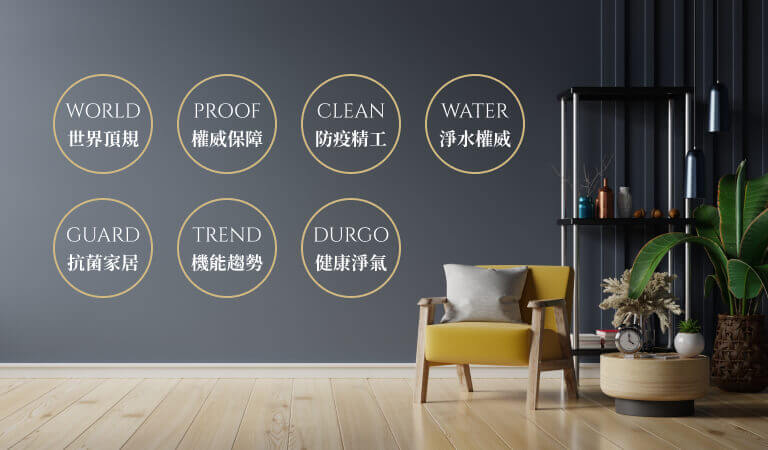
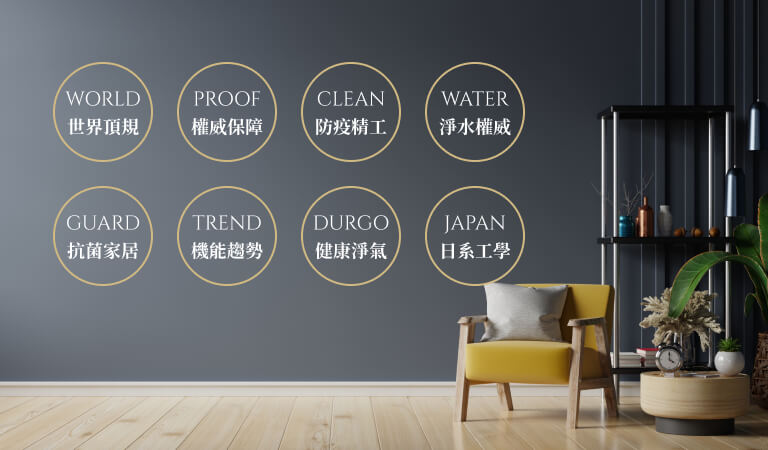
[Fix] 需求調整

diff --git a/css/main.min.css b/css/main.min.css
@@ -1,1 +1,1 @@
-@import"https://fonts.googleapis.com/css2?family=Noto+Serif+TC:wght@400;700&display=swap";@import"https://fonts.googleapis.com/css2?family=Cinzel&display=swap";*,*::after,*::before{-webkit-box-sizing:border-box;box-sizing:border-box}html{font-size:16px}body{color:#181818;font-family:"Noto Serif TC","微軟正黑體","Microsoft JhengHei",serif}h1,h2,h3,h4,h5,h6{margin:0}img{display:block;max-width:100%;height:auto}p{margin:0}picture{max-width:100%}.white{color:#fff}.gold{color:#d1b982}.relative{position:relative}.d-none{display:none}.d-block{display:block}.d-flex{display:-webkit-box;display:-ms-flexbox;display:flex}@media(min-width: 821px){.d-md-none{display:none}.d-md-inline{display:inline-block}.d-md-block{display:block}}.align-center{-webkit-box-align:center;-ms-flex-align:center;align-items:center}.justify-between{-webkit-box-pack:justify;-ms-flex-pack:justify;justify-content:space-between}.justify-center{-webkit-box-pack:center;-ms-flex-pack:center;justify-content:center}.justify-start{-webkit-box-pack:start;-ms-flex-pack:start;justify-content:flex-start}.font-en,.title-en{font-family:"Cinzel",serif}.title{margin-bottom:1rem;font-size:clamp(1.5rem,5vw,2.5rem);font-weight:bold;line-height:1.4}.title.large{font-size:clamp(2rem,8vw,4rem)}.title.middle{font-size:clamp(1.25rem,5vw,2.25rem)}.title.small{font-size:clamp(.8rem,4vw,1.25rem)}.title-en{margin-bottom:.5rem;color:#d1b982;font-size:clamp(.9rem,3vw,1.5rem);font-weight:normal}.subtitle{margin-bottom:.8rem;font-size:clamp(1rem,3vw,1.5rem);font-weight:normal;line-height:1.2}.para{font-size:clamp(.75rem,2vw,1.125rem);line-height:1.8;text-align:justify}.img-tag{position:absolute;left:1rem;bottom:1rem;color:#fff;font-size:.75rem}.img-tag.right{left:initial;right:1rem}@media(min-width: 821px){.title{margin-bottom:3rem}.title-en{margin-bottom:1rem}.subtitle{margin-bottom:1.25rem}.img-tag{font-size:1rem}}.deco-line,.deco-line-gold{display:block;width:100%;height:1px;background-color:#fff;margin:0}.deco-line-gold{background-color:#d1b982}@media(min-width: 821px){.deco-line,.deco-line-gold{height:2px}}.swiper-slide img{display:block;width:100%;height:100%;-o-object-fit:cover;object-fit:cover}.swiper-button-next,.swiper-button-prev{min-width:2rem;min-height:3rem;background-color:rgba(226,226,226,.6)}.swiper-button-next::after,.swiper-button-prev::after{display:none}.swiper-button-next svg,.swiper-button-prev svg{fill:#fff}.swiper-button-next{padding:0 .75rem 0 .5rem;border-radius:4px 0 0 4px;right:0}.swiper-button-prev{padding:0 .5rem 0 .75rem;border-radius:0 4px 4px 0;left:0}@media(min-width: 821px){.swiper-button-next,.swiper-button-prev{padding:0;background-color:rgba(0,0,0,0)}.swiper-button-next svg,.swiper-button-prev svg{fill:#d1b982}.swiper-button-next.white svg,.swiper-button-prev.white svg{fill:#fff}.swiper-button-next{right:3rem}.swiper-button-prev{left:3rem}}.section{position:relative;max-width:100vw;min-height:100vh;overflow:hidden}.img-bg img{width:100vw;max-width:100%;height:100vh;-o-object-fit:cover;object-fit:cover}.pattern-g{background-image:url("../images/patten-g-m.png");background-repeat:repeat}.pattern-r{background-image:url("../images/patten-r-m.png");background-repeat:repeat}@media(min-width: 821px){.pattern-g{background-image:url("../images/patten-g.png")}.pattern-r{background-image:url("../images/patten-r.png")}}.s0{color:#fff}.s0 .logo{margin-bottom:1.25rem}.s0 .divider{margin:0 10px}.s0 .content{display:-webkit-box;display:-ms-flexbox;display:flex;-webkit-box-orient:vertical;-webkit-box-direction:normal;-ms-flex-direction:column;flex-direction:column;-webkit-box-align:center;-ms-flex-align:center;align-items:center;-webkit-box-pack:center;-ms-flex-pack:center;justify-content:center;position:absolute;top:50%;left:50%;-webkit-transform:translate(-50%, -50%);transform:translate(-50%, -50%);white-space:nowrap}.s0 .middle{margin-bottom:1.25rem;color:#e2e2e2;text-align:center;line-height:1.4}.s0 .middle .font-en,.s0 .middle .title-en{letter-spacing:2px}.s0 .small{color:#e2e2e2}.s0 .gradient{color:#f1dfb5;background:linear-gradient(45deg, #f1dfb5 75%, #FFF 80%, #f1dfb5 85%);background-size:200% auto;background-clip:text;text-fill-color:rgba(0,0,0,0);-webkit-background-clip:text;-webkit-text-fill-color:rgba(0,0,0,0);-webkit-animation:textGradient 1.5s linear infinite;animation:textGradient 1.5s linear infinite}@-webkit-keyframes textGradient{0%{background-position:200% 0}100%{background-position:0 200%}}@keyframes textGradient{0%{background-position:200% 0}100%{background-position:0 200%}}@media(min-width: 821px){.s0 .logo{margin-bottom:2.5rem}.s0 .large{margin-bottom:5.5rem}}.s1 .content{display:-webkit-box;display:-ms-flexbox;display:flex;-webkit-box-orient:vertical;-webkit-box-direction:normal;-ms-flex-direction:column;flex-direction:column;-webkit-box-align:center;-ms-flex-align:center;align-items:center;position:absolute;bottom:6rem;right:50%;-webkit-transform:translateX(50%);transform:translateX(50%)}.s1 .title,.s1 .title-en{white-space:nowrap}@media(min-width: 821px){.s1 .content{-webkit-box-align:start;-ms-flex-align:start;align-items:flex-start;top:8rem;bottom:initial;right:4rem;-webkit-transform:initial;transform:initial}}.s2{padding:3rem 1.5rem;min-height:auto}.s2 .img-bg img{max-height:40vh;margin:0 auto}.s2 .content{display:-webkit-box;display:-ms-flexbox;display:flex;-webkit-box-orient:vertical;-webkit-box-direction:normal;-ms-flex-direction:column;flex-direction:column;-webkit-box-align:center;-ms-flex-align:center;align-items:center;margin-top:1rem}@media(min-width: 821px){.s2{padding:0}.s2 .img-bg img{max-height:100vh}.s2 .content{max-width:40vw;margin:0;color:#fff;-webkit-box-align:start;-ms-flex-align:start;align-items:flex-start;position:absolute;top:8rem;left:4rem}.s2 .para{max-width:520px}}.s3{padding:0 0 3rem 0;min-height:auto}.s3 .img-bg img{height:auto;margin:0 auto}.s3 .border{display:inline-block;margin-bottom:.5rem;padding:0 1rem;border-left:2px solid #d1b982;border-right:2px solid #d1b982;font-weight:bold;line-height:1}.s3 .content{display:-webkit-box;display:-ms-flexbox;display:flex;-webkit-box-orient:vertical;-webkit-box-direction:normal;-ms-flex-direction:column;flex-direction:column;-webkit-box-align:center;-ms-flex-align:center;align-items:center;margin-top:1rem;padding:0 1.5rem}.s3 .title{font-size:clamp(1.2rem,5vw,2.2rem);text-align:center}.s3 .circle-group{display:none}.s3 .deco-line,.s3 .deco-line-gold{margin:1rem auto;background-color:#d1b982}.s3 .deco-line-gold{margin:0 auto 1rem auto;max-width:100%}.s3 .img-flag{max-width:28px;height:auto;-o-object-fit:contain;object-fit:contain}.s3 .img-flag.jp{-webkit-box-shadow:0 0 4px rgba(24,24,24,.2);box-shadow:0 0 4px rgba(24,24,24,.2)}.s3 .img-durgo{max-width:78px;height:auto}.s3 .d-flex{gap:8px;margin-bottom:1rem;-webkit-box-pack:center;-ms-flex-pack:center;justify-content:center;-webkit-box-align:center;-ms-flex-align:center;align-items:center}.s3 .d-flex .subtitle{font-size:clamp(1rem,3vw,2rem);font-weight:bold}.s3 .d-flex .title,.s3 .d-flex .title-en,.s3 .d-flex .subtitle{margin:0;white-space:nowrap}.s3 .d-flex .title.white,.s3 .d-flex .title-en.white,.s3 .d-flex .subtitle.white{color:#181818}.s3 ul.list li{display:-webkit-box;display:-ms-flexbox;display:flex;-webkit-box-align:center;-ms-flex-align:center;align-items:center}.s3 ul.list li::before{content:"";display:block;width:10px;height:10px;margin-right:10px;background-color:#d1b982;border-radius:50%}.s3 .d-md-none{display:none}@media(min-width: 821px){.s3{padding:0;color:#fff}.s3 .img-bg img{max-height:100vh}.s3 .img-background{background-color:rgba(24,24,24,.6);padding:1.5rem}.s3 .border{margin-bottom:1.125rem}.s3 .content{-webkit-box-align:start;-ms-flex-align:start;align-items:flex-start;max-width:45vw;margin:0;padding:0;position:absolute;top:50%;-webkit-transform:translateY(-50%);transform:translateY(-50%)}.s3 .content.left{left:8rem}.s3 .content.right{right:8rem}.s3 .content.center{display:-webkit-box;display:-ms-flexbox;display:flex;-webkit-box-orient:vertical;-webkit-box-direction:normal;-ms-flex-direction:column;flex-direction:column;-webkit-box-align:center;-ms-flex-align:center;align-items:center;left:50%;-webkit-transform:translate(-50%, -50%);transform:translate(-50%, -50%)}.s3 .content.center .para{margin-top:2rem;margin-bottom:1rem}.s3 .content.background{background-color:rgba(0,10,46,.5);padding:2rem;border:2px solid #fff}.s3 .title{margin-bottom:2.5rem;text-align:left}.s3 .para{max-width:520px}.s3 .circle-group{display:grid;grid-template-columns:repeat(4, 150px);gap:1rem;margin-top:2rem}.s3 .circle-item{display:-webkit-box;display:-ms-flexbox;display:flex;-webkit-box-orient:vertical;-webkit-box-direction:normal;-ms-flex-direction:column;flex-direction:column;-webkit-box-align:center;-ms-flex-align:center;align-items:center;-webkit-box-pack:center;-ms-flex-pack:center;justify-content:center;width:150px;height:150px;border:2px solid #d1b982;border-radius:50%;font-size:1.5rem;font-weight:bold}.s3 .circle-item .font-en,.s3 .circle-item .title-en{font-weight:normal}.s3 .deco-line,.s3 .deco-line-gold{margin:3rem auto;background-color:#fff}.s3 .deco-line-gold{max-width:320px;margin:0 auto 3rem 0;justify-self:flex-start;background-color:#d1b982}.s3 .img-flag{max-width:48px}.s3 .img-durgo{max-width:138px}.s3 .d-flex{gap:16px;margin:0}.s3 .d-flex.d-md-left{-webkit-box-pack:start;-ms-flex-pack:start;justify-content:flex-start}.s3 .d-flex .title.white,.s3 .d-flex .title-en.white{color:#fff}.s3 .d-md-none{display:block}}.s4{display:-webkit-box;display:-ms-flexbox;display:flex;-webkit-box-orient:vertical;-webkit-box-direction:normal;-ms-flex-direction:column;flex-direction:column;max-height:auto;background-color:#e2e2e2;min-height:initial}.s4 .swiper{max-width:100%}.s4 .swiper .swiper-slide{padding:1.5rem}.s4 .content{-webkit-box-flex:initial;-ms-flex:initial;flex:initial;max-width:initial;display:-webkit-box;display:-ms-flexbox;display:flex;-webkit-box-orient:vertical;-webkit-box-direction:normal;-ms-flex-direction:column;flex-direction:column;-webkit-box-align:center;-ms-flex-align:center;align-items:center;padding:0 1.5rem 3rem 1.5rem}@media(min-width: 821px){.s4{-webkit-box-orient:horizontal;-webkit-box-direction:normal;-ms-flex-direction:row;flex-direction:row;min-height:100vh;max-height:100vh;background-color:#fff}.s4 .swiper{-webkit-box-flex:1;-ms-flex:1;flex:1;max-width:65%}.s4 .swiper .swiper-slide{padding:0}.s4 .content{-ms-flex-item-align:center;align-self:center;-webkit-box-flex:0;-ms-flex:0 0 35%;flex:0 0 35%;max-width:35%;min-width:380px;padding:4rem}.s4 .title{white-space:initial}}.s5{min-height:auto}.s5 .swiper-slide{display:-webkit-box;display:-ms-flexbox;display:flex;-webkit-box-orient:vertical;-webkit-box-direction:normal;-ms-flex-direction:column;flex-direction:column;padding:3rem 1.5rem}.s5 .title{color:#d1b982;font-size:clamp(1.25rem,4vw,2.2rem);margin-bottom:0}.s5 .title span{margin-left:4px;font-size:clamp(1rem,3vw,1.5rem)}.s5 .content-wrapper{display:-webkit-box;display:-ms-flexbox;display:flex;margin-bottom:1rem}.s5 .works-title{display:-webkit-box;display:-ms-flexbox;display:flex;-webkit-box-align:center;-ms-flex-align:center;align-items:center;white-space:nowrap;color:#d1b982;font-size:clamp(.75rem,3vw,1.25rem)}.s5 .works-title+.para{line-height:1.4}.s5 .deco-line-gold{width:auto;-webkit-box-flex:1;-ms-flex:1;flex:1;margin:16px 0 16px 10px;height:1px}.s5 .avatar{width:120px;height:120px;margin-right:1rem}.s5 .works-img-wrapper{margin-top:1rem;position:relative}.s5 .works-img-wrapper .works-img{position:relative;z-index:1}.s5 .works-img-wrapper .img-tag{z-index:1}.s5 .works-img-wrapper .border{position:absolute;width:100%;height:100%;border:1px solid #d1b982;top:8px;left:8px}@media(min-width: 821px){.s5{min-height:100vh}.s5 .swiper-slide{padding:0;-webkit-box-orient:horizontal;-webkit-box-direction:normal;-ms-flex-direction:row;flex-direction:row}.s5 .title{margin-bottom:48px;line-height:1.6}.s5 .avatar{width:160px;height:160px;position:absolute;top:-120px}.s5 .content{display:-webkit-box;display:-ms-flexbox;display:flex;-webkit-box-orient:vertical;-webkit-box-direction:normal;-ms-flex-direction:column;flex-direction:column;-webkit-box-align:center;-ms-flex-align:center;align-items:center;-webkit-box-pack:center;-ms-flex-pack:center;justify-content:center;-webkit-box-flex:0;-ms-flex:0 0 35%;flex:0 0 35%;max-width:35%;min-width:380px;padding:3.2rem}.s5 .content-wrapper{-webkit-box-orient:vertical;-webkit-box-direction:normal;-ms-flex-direction:column;flex-direction:column;max-width:360px;border:1px solid #d1b982;margin-bottom:0;padding:4rem 2rem 2rem 2rem;position:relative;background-color:#fff;-webkit-transform:translateY(4vw);transform:translateY(4vw)}.s5 .works-title+.para{line-height:1.8}.s5 .deco-line-gold{margin:24px 0 24px 24px}.works-grid{display:grid;-webkit-box-flex:1;-ms-flex:1;flex:1;max-width:65%;height:100vh;max-height:100vh;display:grid;grid-gap:4px;grid-template-columns:repeat(4, 1fr);grid-template-rows:repeat(3, 1fr)}.works-grid.d1{grid-template-areas:"G1 G1 G4 G4" "G2 G2 G4 G4" "G3 G3 G4 G4"}.works-grid.d2{grid-template-areas:"G1 G1 G2 G2" "G1 G1 G3 G3" "G4 G4 G4 G4"}.works-grid.d3{grid-template-rows:repeat(4, 1fr);grid-template-areas:"G1 G1 G2 G2" "G1 G1 G2 G2" "G3 G3 G4 G4" "G3 G3 G4 G4"}.works-grid.d4{grid-template-columns:repeat(3, 1fr);grid-template-areas:"G1 G1 G1" "G2 G3 G4" "G2 G3 G4"}.g1{grid-area:G1}.g2{grid-area:G2}.g3{grid-area:G3}.g4{grid-area:G4}}@media(min-width: 1280px){.s5 .title{line-height:1.8}.s5 .avatar{width:200px;height:200px;top:-150px}.s5 .content-wrapper{padding:4rem 2.5rem 2.5rem 2.5rem}.s5 .content{padding:4rem}}.s6{display:-webkit-box;display:-ms-flexbox;display:flex;-webkit-box-orient:vertical;-webkit-box-direction:normal;-ms-flex-direction:column;flex-direction:column;max-height:auto;background-color:#d1b982;min-height:initial}.s6 .swiper{max-width:100%}.s6 .swiper .swiper-slide{position:relative}.s6 .content{-webkit-box-flex:initial;-ms-flex:initial;flex:initial;max-width:initial;display:-webkit-box;display:-ms-flexbox;display:flex;-webkit-box-orient:vertical;-webkit-box-direction:normal;-ms-flex-direction:column;flex-direction:column;-webkit-box-align:center;-ms-flex-align:center;align-items:center;padding:1rem 1.5rem 3rem 1.5rem}@media(min-width: 821px){.s6{-webkit-box-orient:horizontal;-webkit-box-direction:normal;-ms-flex-direction:row;flex-direction:row;min-height:100vh;max-height:100vh;color:#fff;background-color:#d1b982}.s6 .swiper{-webkit-box-flex:1;-ms-flex:1;flex:1}.s6 .vertical_write{font-size:1.5rem;-webkit-writing-mode:vertical-rl;-ms-writing-mode:tb-rl;writing-mode:vertical-rl;line-height:1.5;letter-spacing:6px}.s6 .content{-ms-flex-item-align:center;align-self:center;-webkit-box-flex:0;-ms-flex:0 0 280px;flex:0 0 280px;max-width:280px;padding:4rem}.s6 .para{padding:2.5rem 0;border-top:1px solid #fff;border-bottom:1px solid #fff}}.s7{min-height:auto}.s7 .swiper-slide{padding:3rem 1.5rem 0 1.5rem}.s7 .swiper-slide img{min-height:220px}.s7 .title{text-align:center}.s7 .content{display:-webkit-box;display:-ms-flexbox;display:flex;-webkit-box-orient:vertical;-webkit-box-direction:normal;-ms-flex-direction:column;flex-direction:column;-webkit-box-align:center;-ms-flex-align:center;align-items:center;padding:1rem 1.5rem 3rem 1.5rem}.s7 .white{color:#181818}@media(min-width: 821px){.s7{display:block}.s7 .swiper-slide{padding:0}.s7 .swiper-slide img{height:100vh}.s7 .title{text-align:left}.s7 .content{width:40vw;max-width:620px;min-width:560px;margin:0;-webkit-box-align:start;-ms-flex-align:start;align-items:flex-start;position:absolute;top:6rem;left:0;padding:2rem 4rem 2rem 8rem}.s7 .content.white{color:#fff;background-color:rgba(24,24,24,.5)}}.reservation{background:url("../images/s0/bg-m.jpg") center center;background-size:cover}.reservation .d-flex{padding:8rem 4rem 6rem 4rem;-webkit-box-align:start;-ms-flex-align:start;align-items:flex-start;-webkit-box-pack:center;-ms-flex-pack:center;justify-content:center}.reservation .title{font-size:30px;margin-bottom:1rem;color:#fff}@media(min-width: 821px){.reservation{background:url("../images/s0/bg.jpg") center center}}.intro{margin-right:2rem;-webkit-box-flex:1;-ms-flex:1 1 40%;flex:1 1 40%;max-width:480px}.intro a{font-size:18px;color:#fff}.info-wrapper{color:#fff}.info-wrapper .table{margin-bottom:2rem}.info-wrapper .table>thead>tr>th{padding:0;border:none}.info-wrapper .table>tbody>tr>td{padding:8px 0;font-size:18px;font-weight:bold;border:none}.call-to-action{-webkit-box-flex:1;-ms-flex:1 1 60%;flex:1 1 60%;max-width:710px}.form-wrapper{max-width:710px;margin:0 auto;padding-bottom:2rem}.form-wrapper .form-control-wrapper{margin-bottom:4rem}.form-wrapper .d-flex{padding:0}.form-wrapper .d-flex .form-control{-webkit-box-flex:1;-ms-flex:1;flex:1;margin-bottom:0;margin-right:16px}.form-title{margin-bottom:2rem;color:#fff;font-weight:bold;text-align:left}.form-control{border:1px solid #9e9f9f;border-radius:4px;background-color:#fff;color:#181818;height:52px;margin-bottom:1rem;font-size:1rem;padding:8px 20px 8px 12px}.form-control::-webkit-input-placeholder{color:#9e9f9f}.form-control::-moz-placeholder{color:#9e9f9f}.form-control:-ms-input-placeholder{color:#9e9f9f}.form-control::-ms-input-placeholder{color:#9e9f9f}.form-control::placeholder{color:#9e9f9f}.policy{margin-bottom:1rem;color:#fff;line-height:1.5}.form-check-label{display:-webkit-box;display:-ms-flexbox;display:flex;-webkit-box-align:center;-ms-flex-align:center;align-items:center;gap:8px;margin-bottom:1.5rem;color:#fff;font-weight:normal;cursor:pointer}.form-check-label a{padding-left:4px;color:#fff;font-weight:bold}.form-check-label a:hover{text-decoration:underline}.btn{display:-webkit-box;display:-ms-flexbox;display:flex;-webkit-box-align:center;-ms-flex-align:center;align-items:center;-webkit-box-pack:center;-ms-flex-pack:center;justify-content:center;-webkit-box-flex:1;-ms-flex:1;flex:1;height:52px;color:#fff;border-radius:4px;background-color:#d1b982;font-size:18px;font-weight:bold;-webkit-transition:all .1s ease-in;transition:all .1s ease-in;cursor:pointer}.btn:hover{color:#9e9f9f;background-color:#fff}.btn-secondary{height:52px;color:#fff;background-color:#9e9f9f;border:0;border-radius:4px;font-weight:bold}@media(max-width: 1024px){.reservation .title{font-size:22px;text-align:left}.reservation .d-flex{padding:2rem 1rem;-webkit-box-orient:vertical;-webkit-box-direction:normal;-ms-flex-direction:column;flex-direction:column;-webkit-box-align:center;-ms-flex-align:center;align-items:center;max-width:680px;margin:0 auto}.reservation .intro{-webkit-box-flex:1;-ms-flex:1 1 100%;flex:1 1 100%;width:100%;max-width:100%;margin:0;padding:0}.reservation .call-to-action{-webkit-box-flex:1;-ms-flex:1 1 100%;flex:1 1 100%}.reservation .info-wrapper .table{margin-bottom:1rem}.reservation .info-wrapper .table>thead>tr>th{padding:0}.reservation .info-wrapper .table>tbody>tr>td{font-size:16px;padding:0 0 1rem 0}.reservation .form-wrapper{max-width:680px}.reservation .form-wrapper .d-flex{-webkit-box-orient:horizontal;-webkit-box-direction:normal;-ms-flex-direction:row;flex-direction:row;-webkit-box-align:stretch;-ms-flex-align:stretch;align-items:stretch;padding:0;margin-bottom:.5rem}.reservation .form-wrapper .d-flex .form-control{margin-right:5px}}@media(max-width: 820px){.reservation .d-flex{padding:2rem 0}.reservation .intro{text-align:center}.reservation .intro .title{text-align:center;margin-bottom:1rem}.reservation .intro .para{margin:0;text-align:center}.reservation .contact-content{display:-webkit-box;display:-ms-flexbox;display:flex;-webkit-box-align:center;-ms-flex-align:center;align-items:center;-webkit-box-pack:center;-ms-flex-pack:center;justify-content:center;gap:.75rem;padding-bottom:1.5rem;margin-bottom:1.5rem;position:relative}.reservation .contact-content::after{content:"";display:block;width:80px;height:2px;background-color:#fff;position:absolute;bottom:0}.reservation .contact-content .title{margin-bottom:0}.reservation .contact-content .title,.reservation .contact-content .para{font-size:1.5rem}.form-wrapper .form-title{text-align:center;padding-bottom:8px}.form-wrapper .form-control-wrapper{margin-bottom:0}.form-wrapper .form-control,.form-wrapper .btn,.form-wrapper .btn-secondary{height:48px}.map-wrapper{display:-webkit-box;display:-ms-flexbox;display:flex;-webkit-box-orient:vertical;-webkit-box-direction:reverse;-ms-flex-direction:column-reverse;flex-direction:column-reverse}}@media(max-width: 480px){.form-title{margin:0;margin-bottom:1rem;font-size:22px}.form-control{margin-bottom:.5rem}.form-control,.btn,.btn-secondary{font-size:15px}.policy{margin-bottom:8px;font-size:12px;letter-spacing:-1px}.form-check-label{margin-bottom:12px;font-size:12px}}.google-map{width:100%;max-width:100%;height:30vh;max-height:200px;margin:2rem auto;position:relative}.google-map iframe{width:100%;max-width:100%;height:100%;position:absolute;top:0;bottom:0;left:0;right:0}@media(max-width: 820px){.google-map{margin-bottom:2rem}}/*# sourceMappingURL=main.min.css.map */
+@import"https://fonts.googleapis.com/css2?family=Noto+Serif+TC:wght@400;700&display=swap";@import"https://fonts.googleapis.com/css2?family=Cinzel&display=swap";*,*::after,*::before{-webkit-box-sizing:border-box;box-sizing:border-box}html{font-size:16px}body{color:#181818;font-family:"Noto Serif TC","微軟正黑體","Microsoft JhengHei",serif}h1,h2,h3,h4,h5,h6{margin:0}img{display:block;max-width:100%;height:auto}p{margin:0}picture{max-width:100%}.white{color:#fff}.gold{color:#d1b982}.relative{position:relative}.d-none{display:none}.d-block{display:block}.d-flex{display:-webkit-box;display:-ms-flexbox;display:flex}@media(min-width: 821px){.d-md-none{display:none}.d-md-inline{display:inline-block}.d-md-block{display:block}}.align-center{-webkit-box-align:center;-ms-flex-align:center;align-items:center}.justify-between{-webkit-box-pack:justify;-ms-flex-pack:justify;justify-content:space-between}.justify-center{-webkit-box-pack:center;-ms-flex-pack:center;justify-content:center}.justify-start{-webkit-box-pack:start;-ms-flex-pack:start;justify-content:flex-start}.font-en,.title-en{font-family:"Cinzel",serif}.title{margin-bottom:1rem;font-size:clamp(1.5rem,5vw,2.5rem);font-weight:bold;line-height:1.4}.title.large{font-size:clamp(2rem,8vw,4rem)}.title.middle{font-size:clamp(1.25rem,5vw,2.25rem)}.title.small{font-size:clamp(.8rem,4vw,1.25rem)}.title-en{margin-bottom:.5rem;color:#d1b982;font-size:clamp(.9rem,3vw,1.5rem);font-weight:normal}.subtitle{margin-bottom:.8rem;font-size:clamp(1rem,3vw,1.5rem);font-weight:normal;line-height:1.2}.para{font-size:clamp(.75rem,2vw,1.125rem);line-height:1.8;text-align:justify}.img-tag{position:absolute;left:1rem;bottom:1rem;color:#fff;font-size:.75rem}.img-tag.right{left:initial;right:1rem}@media(min-width: 821px){.title{margin-bottom:3rem}.title-en{margin-bottom:1rem}.subtitle{margin-bottom:1.25rem}.img-tag{font-size:1rem}}.deco-line,.deco-line-gold{display:block;width:100%;height:1px;background-color:#fff;margin:0}.deco-line-gold{background-color:#d1b982}@media(min-width: 821px){.deco-line,.deco-line-gold{height:2px}}.swiper-slide img{display:block;width:100%;height:100%;-o-object-fit:cover;object-fit:cover}.swiper-button-next,.swiper-button-prev{min-width:2rem;min-height:3rem;background-color:rgba(226,226,226,.6)}.swiper-button-next::after,.swiper-button-prev::after{display:none}.swiper-button-next svg,.swiper-button-prev svg{fill:#fff}.swiper-button-next{padding:0 .75rem 0 .5rem;border-radius:4px 0 0 4px;right:0}.swiper-button-prev{padding:0 .5rem 0 .75rem;border-radius:0 4px 4px 0;left:0}@media(min-width: 821px){.swiper-button-next,.swiper-button-prev{padding:0;background-color:rgba(0,0,0,0)}.swiper-button-next svg,.swiper-button-prev svg{fill:#d1b982}.swiper-button-next.white svg,.swiper-button-prev.white svg{fill:#fff}.swiper-button-next{right:3rem}.swiper-button-prev{left:3rem}}.section{position:relative;max-width:100vw;min-height:100vh;overflow:hidden}.img-bg img{width:100vw;max-width:100%;height:100vh;-o-object-fit:cover;object-fit:cover}.pattern-g{background-image:url("../images/patten-g-m.png");background-repeat:repeat}.pattern-r{background-image:url("../images/patten-r-m.png");background-repeat:repeat}@media(min-width: 821px){.pattern-g{background-image:url("../images/patten-g.png")}.pattern-r{background-image:url("../images/patten-r.png")}}.s0{color:#fff}.s0 .logo{margin-bottom:1.25rem}.s0 .divider{margin:0 10px}.s0 .content{display:-webkit-box;display:-ms-flexbox;display:flex;-webkit-box-orient:vertical;-webkit-box-direction:normal;-ms-flex-direction:column;flex-direction:column;-webkit-box-align:center;-ms-flex-align:center;align-items:center;-webkit-box-pack:center;-ms-flex-pack:center;justify-content:center;position:absolute;top:50%;left:50%;-webkit-transform:translate(-50%, -50%);transform:translate(-50%, -50%);white-space:nowrap}.s0 .middle{margin-bottom:1.25rem;color:#e2e2e2;text-align:center;line-height:1.4}.s0 .middle .font-en,.s0 .middle .title-en{letter-spacing:2px}.s0 .small{color:#e2e2e2}.s0 .gradient{color:#f1dfb5;background:linear-gradient(45deg, #f1dfb5 75%, #FFF 80%, #f1dfb5 85%);background-size:200% auto;background-clip:text;text-fill-color:rgba(0,0,0,0);-webkit-background-clip:text;-webkit-text-fill-color:rgba(0,0,0,0);-webkit-animation:textGradient 1.5s linear infinite;animation:textGradient 1.5s linear infinite}@-webkit-keyframes textGradient{0%{background-position:200% 0}100%{background-position:0 200%}}@keyframes textGradient{0%{background-position:200% 0}100%{background-position:0 200%}}@media(min-width: 821px){.s0 .logo{margin-bottom:2.5rem}.s0 .large{margin-bottom:5.5rem}}.s1 .content{display:-webkit-box;display:-ms-flexbox;display:flex;-webkit-box-orient:vertical;-webkit-box-direction:normal;-ms-flex-direction:column;flex-direction:column;-webkit-box-align:center;-ms-flex-align:center;align-items:center;position:absolute;bottom:6rem;right:50%;-webkit-transform:translateX(50%);transform:translateX(50%)}.s1 .title,.s1 .title-en{white-space:nowrap}@media(min-width: 821px){.s1 .content{-webkit-box-align:start;-ms-flex-align:start;align-items:flex-start;top:8rem;bottom:initial;right:4rem;-webkit-transform:initial;transform:initial}}.s2{padding:3rem 1.5rem;min-height:auto}.s2 .img-bg img{max-height:40vh;margin:0 auto}.s2 .content{display:-webkit-box;display:-ms-flexbox;display:flex;-webkit-box-orient:vertical;-webkit-box-direction:normal;-ms-flex-direction:column;flex-direction:column;-webkit-box-align:center;-ms-flex-align:center;align-items:center;margin-top:1rem}@media(min-width: 821px){.s2{padding:0}.s2 .img-bg img{max-height:100vh}.s2 .content{max-width:40vw;margin:0;color:#fff;-webkit-box-align:start;-ms-flex-align:start;align-items:flex-start;position:absolute;top:8rem;left:4rem}.s2 .para{max-width:520px}}.s3{padding:0 0 3rem 0;min-height:auto}.s3 .img-bg img{height:auto;margin:0 auto}.s3 .border{display:inline-block;margin-bottom:.5rem;padding:0 1rem;border-left:2px solid #d1b982;border-right:2px solid #d1b982;font-weight:bold;line-height:1}.s3 .content{display:-webkit-box;display:-ms-flexbox;display:flex;-webkit-box-orient:vertical;-webkit-box-direction:normal;-ms-flex-direction:column;flex-direction:column;-webkit-box-align:center;-ms-flex-align:center;align-items:center;margin-top:1rem;padding:0 1.5rem}.s3 .title{font-size:clamp(1.2rem,5vw,2.2rem);text-align:center}.s3 .circle-group{display:none}.s3 .deco-line,.s3 .deco-line-gold{margin:1rem auto;background-color:#d1b982}.s3 .deco-line-gold{margin:0 auto 1rem auto;max-width:100%}.s3 .img-flag{max-width:28px;height:auto;-o-object-fit:contain;object-fit:contain}.s3 .img-flag.jp{-webkit-box-shadow:0 0 4px rgba(24,24,24,.2);box-shadow:0 0 4px rgba(24,24,24,.2)}.s3 .img-durgo{max-width:78px;height:auto}.s3 .d-flex{gap:8px;margin-bottom:1rem;-webkit-box-pack:center;-ms-flex-pack:center;justify-content:center;-webkit-box-align:center;-ms-flex-align:center;align-items:center}.s3 .d-flex .subtitle{font-size:clamp(1rem,3vw,2rem);font-weight:bold}.s3 .d-flex .title,.s3 .d-flex .title-en,.s3 .d-flex .subtitle{margin:0;white-space:nowrap}.s3 .d-flex .title.white,.s3 .d-flex .title-en.white,.s3 .d-flex .subtitle.white{color:#181818}.s3 ul.list{width:100%;max-width:100%}.s3 ul.list li{display:-webkit-box;display:-ms-flexbox;display:flex;-webkit-box-align:center;-ms-flex-align:center;align-items:center}.s3 ul.list li::before{content:"";display:block;width:10px;height:10px;margin-right:10px;background-color:#d1b982;border-radius:50%}.s3 .d-md-none{display:none}@media(min-width: 821px){.s3{padding:0;color:#fff}.s3 .img-bg img{max-height:100vh}.s3 .img-background{background-color:rgba(24,24,24,.6);padding:1.5rem}.s3 .border{margin-bottom:1.125rem}.s3 .content{-webkit-box-align:start;-ms-flex-align:start;align-items:flex-start;max-width:45vw;margin:0;padding:0;position:absolute;top:50%;-webkit-transform:translateY(-50%);transform:translateY(-50%)}.s3 .content.left{left:8rem}.s3 .content.right{right:8rem}.s3 .content.center{display:-webkit-box;display:-ms-flexbox;display:flex;-webkit-box-orient:vertical;-webkit-box-direction:normal;-ms-flex-direction:column;flex-direction:column;-webkit-box-align:center;-ms-flex-align:center;align-items:center;left:50%;-webkit-transform:translate(-50%, -50%);transform:translate(-50%, -50%)}.s3 .content.center .para{margin-top:2rem;margin-bottom:1rem}.s3 .content.background{background-color:rgba(0,10,46,.5);padding:2rem;border:2px solid #fff}.s3 .title{margin-bottom:2.5rem;text-align:left}.s3 .para{max-width:520px}.s3 .circle-group{display:grid;grid-template-columns:repeat(4, 150px);gap:1rem;margin-top:2rem}.s3 .circle-item{display:-webkit-box;display:-ms-flexbox;display:flex;-webkit-box-orient:vertical;-webkit-box-direction:normal;-ms-flex-direction:column;flex-direction:column;-webkit-box-align:center;-ms-flex-align:center;align-items:center;-webkit-box-pack:center;-ms-flex-pack:center;justify-content:center;width:150px;height:150px;border:2px solid #d1b982;border-radius:50%;font-size:1.5rem;font-weight:bold}.s3 .circle-item .font-en,.s3 .circle-item .title-en{font-weight:normal}.s3 .deco-line,.s3 .deco-line-gold{margin:3rem auto;background-color:#fff}.s3 .deco-line-gold{max-width:320px;margin:0 auto 3rem 0;justify-self:flex-start;background-color:#d1b982}.s3 .img-flag{max-width:48px}.s3 .img-durgo{max-width:138px}.s3 .d-flex{gap:16px;margin:0}.s3 .d-flex.d-md-left{-webkit-box-pack:start;-ms-flex-pack:start;justify-content:flex-start}.s3 .d-flex .title.white,.s3 .d-flex .title-en.white{color:#fff}.s3 .d-md-none{display:block}}.s4{display:-webkit-box;display:-ms-flexbox;display:flex;-webkit-box-orient:vertical;-webkit-box-direction:normal;-ms-flex-direction:column;flex-direction:column;max-height:auto;background-color:#e2e2e2;min-height:initial}.s4 .swiper{max-width:100%}.s4 .swiper .swiper-slide{padding:1.5rem}.s4 .content{-webkit-box-flex:initial;-ms-flex:initial;flex:initial;max-width:initial;display:-webkit-box;display:-ms-flexbox;display:flex;-webkit-box-orient:vertical;-webkit-box-direction:normal;-ms-flex-direction:column;flex-direction:column;-webkit-box-align:center;-ms-flex-align:center;align-items:center;padding:0 1.5rem 3rem 1.5rem}@media(min-width: 821px){.s4{-webkit-box-orient:horizontal;-webkit-box-direction:normal;-ms-flex-direction:row;flex-direction:row;min-height:100vh;max-height:100vh;background-color:#fff}.s4 .swiper{-webkit-box-flex:1;-ms-flex:1;flex:1;max-width:65%}.s4 .swiper .swiper-slide{padding:0}.s4 .content{-ms-flex-item-align:center;align-self:center;-webkit-box-flex:0;-ms-flex:0 0 35%;flex:0 0 35%;max-width:35%;min-width:380px;padding:4rem}.s4 .title{white-space:initial}}.s5{min-height:auto}.s5 .swiper-slide{display:-webkit-box;display:-ms-flexbox;display:flex;-webkit-box-orient:vertical;-webkit-box-direction:normal;-ms-flex-direction:column;flex-direction:column;padding:3rem 1.5rem}.s5 .title{color:#d1b982;font-size:clamp(1.25rem,4vw,2.2rem);margin-bottom:0}.s5 .title span{margin-left:4px;font-size:clamp(1rem,3vw,1.5rem)}.s5 .content-wrapper{display:-webkit-box;display:-ms-flexbox;display:flex;margin-bottom:1rem}.s5 .works-title{display:-webkit-box;display:-ms-flexbox;display:flex;-webkit-box-align:center;-ms-flex-align:center;align-items:center;white-space:nowrap;color:#d1b982;font-size:clamp(.75rem,3vw,1.25rem)}.s5 .works-title+.para{line-height:1.4}.s5 .deco-line-gold{width:auto;-webkit-box-flex:1;-ms-flex:1;flex:1;margin:16px 0 16px 10px;height:1px}.s5 .avatar{width:120px;height:120px;margin-right:1rem}.s5 .works-img-wrapper{margin-top:1rem;position:relative}.s5 .works-img-wrapper .works-img{position:relative;z-index:1}.s5 .works-img-wrapper .img-tag{z-index:1}.s5 .works-img-wrapper .border{position:absolute;width:100%;height:100%;border:1px solid #d1b982;top:8px;left:8px}@media(min-width: 821px){.s5{min-height:100vh}.s5 .swiper-slide{padding:0;-webkit-box-orient:horizontal;-webkit-box-direction:normal;-ms-flex-direction:row;flex-direction:row}.s5 .title{margin-bottom:48px;line-height:1.6}.s5 .avatar{width:160px;height:160px;position:absolute;top:-120px}.s5 .content{display:-webkit-box;display:-ms-flexbox;display:flex;-webkit-box-orient:vertical;-webkit-box-direction:normal;-ms-flex-direction:column;flex-direction:column;-webkit-box-align:center;-ms-flex-align:center;align-items:center;-webkit-box-pack:center;-ms-flex-pack:center;justify-content:center;-webkit-box-flex:0;-ms-flex:0 0 35%;flex:0 0 35%;max-width:35%;min-width:380px;padding:3.2rem}.s5 .content-wrapper{-webkit-box-orient:vertical;-webkit-box-direction:normal;-ms-flex-direction:column;flex-direction:column;max-width:360px;border:1px solid #d1b982;margin-bottom:0;padding:4rem 2rem 2rem 2rem;position:relative;background-color:#fff;-webkit-transform:translateY(4vw);transform:translateY(4vw)}.s5 .works-title+.para{line-height:1.8}.s5 .deco-line-gold{margin:24px 0 24px 24px}.works-grid{display:grid;-webkit-box-flex:1;-ms-flex:1;flex:1;max-width:65%;height:100vh;max-height:100vh;display:grid;grid-gap:4px;grid-template-columns:repeat(4, 1fr);grid-template-rows:repeat(3, 1fr)}.works-grid.d1{grid-template-areas:"G1 G1 G4 G4" "G2 G2 G4 G4" "G3 G3 G4 G4"}.works-grid.d2{grid-template-areas:"G1 G1 G2 G2" "G1 G1 G3 G3" "G4 G4 G4 G4"}.works-grid.d3{grid-template-rows:repeat(4, 1fr);grid-template-areas:"G1 G1 G2 G2" "G1 G1 G2 G2" "G3 G3 G4 G4" "G3 G3 G4 G4"}.works-grid.d4{grid-template-columns:repeat(3, 1fr);grid-template-areas:"G1 G1 G1" "G2 G3 G4" "G2 G3 G4"}.g1{grid-area:G1}.g2{grid-area:G2}.g3{grid-area:G3}.g4{grid-area:G4}}@media(min-width: 1280px){.s5 .title{line-height:1.8}.s5 .avatar{width:200px;height:200px;top:-150px}.s5 .content-wrapper{padding:4rem 2.5rem 2.5rem 2.5rem}.s5 .content{padding:4rem}}.s6{display:-webkit-box;display:-ms-flexbox;display:flex;-webkit-box-orient:vertical;-webkit-box-direction:normal;-ms-flex-direction:column;flex-direction:column;max-height:auto;background-color:#d1b982;min-height:initial}.s6 .swiper{max-width:100%}.s6 .swiper .swiper-slide{position:relative}.s6 .content{-webkit-box-flex:initial;-ms-flex:initial;flex:initial;max-width:initial;display:-webkit-box;display:-ms-flexbox;display:flex;-webkit-box-orient:vertical;-webkit-box-direction:normal;-ms-flex-direction:column;flex-direction:column;-webkit-box-align:center;-ms-flex-align:center;align-items:center;padding:1rem 1.5rem 3rem 1.5rem}@media(min-width: 821px){.s6{-webkit-box-orient:horizontal;-webkit-box-direction:normal;-ms-flex-direction:row;flex-direction:row;min-height:100vh;max-height:100vh;color:#fff;background-color:#d1b982}.s6 .swiper{-webkit-box-flex:1;-ms-flex:1;flex:1}.s6 .vertical_write{font-size:1.5rem;-webkit-writing-mode:vertical-rl;-ms-writing-mode:tb-rl;writing-mode:vertical-rl;line-height:1.5;letter-spacing:6px}.s6 .content{-ms-flex-item-align:center;align-self:center;-webkit-box-flex:0;-ms-flex:0 0 280px;flex:0 0 280px;max-width:280px;padding:4rem}.s6 .para{padding:2.5rem 0;border-top:1px solid #fff;border-bottom:1px solid #fff}}.s7{min-height:auto}.s7 .swiper-slide{padding:3rem 1.5rem 0 1.5rem}.s7 .swiper-slide img{min-height:220px}.s7 .title{text-align:center}.s7 .content{display:-webkit-box;display:-ms-flexbox;display:flex;-webkit-box-orient:vertical;-webkit-box-direction:normal;-ms-flex-direction:column;flex-direction:column;-webkit-box-align:center;-ms-flex-align:center;align-items:center;padding:1rem 1.5rem 3rem 1.5rem}.s7 .white{color:#181818}@media(min-width: 821px){.s7{display:block}.s7 .swiper-slide{padding:0}.s7 .swiper-slide img{height:100vh}.s7 .title{text-align:left}.s7 .content{width:40vw;max-width:620px;min-width:560px;margin:0;-webkit-box-align:start;-ms-flex-align:start;align-items:flex-start;position:absolute;top:6rem;left:0;padding:2rem 4rem 2rem 8rem}.s7 .content.white{color:#fff;background-color:rgba(24,24,24,.5)}}.reservation{background:url("../images/s0/bg-m.jpg") center center;background-size:cover}.reservation .d-flex{padding:8rem 4rem 6rem 4rem;-webkit-box-align:start;-ms-flex-align:start;align-items:flex-start;-webkit-box-pack:center;-ms-flex-pack:center;justify-content:center}.reservation .title{font-size:30px;margin-bottom:1rem;color:#fff}@media(min-width: 821px){.reservation{background:url("../images/s0/bg.jpg") center center}}.intro{margin-right:2rem;-webkit-box-flex:1;-ms-flex:1 1 40%;flex:1 1 40%;max-width:480px}.intro a{font-size:18px;color:#fff}.info-wrapper{color:#fff}.info-wrapper .table{margin-bottom:2rem}.info-wrapper .table>thead>tr>th{padding:0;border:none}.info-wrapper .table>tbody>tr>td{padding:8px 0;font-size:18px;font-weight:bold;border:none}.call-to-action{-webkit-box-flex:1;-ms-flex:1 1 60%;flex:1 1 60%;max-width:710px}.form-wrapper{max-width:710px;margin:0 auto;padding-bottom:2rem}.form-wrapper .form-control-wrapper{margin-bottom:4rem}.form-wrapper .d-flex{padding:0}.form-wrapper .d-flex .form-control{-webkit-box-flex:1;-ms-flex:1;flex:1;margin-bottom:0;margin-right:16px}.form-title{margin-bottom:2rem;color:#fff;font-weight:bold;text-align:left}.form-control{border:1px solid #9e9f9f;border-radius:4px;background-color:#fff;color:#181818;height:52px;margin-bottom:1rem;font-size:1rem;padding:8px 20px 8px 12px}.form-control::-webkit-input-placeholder{color:#9e9f9f}.form-control::-moz-placeholder{color:#9e9f9f}.form-control:-ms-input-placeholder{color:#9e9f9f}.form-control::-ms-input-placeholder{color:#9e9f9f}.form-control::placeholder{color:#9e9f9f}.policy{margin-bottom:1rem;color:#fff;line-height:1.5}.form-check-label{display:-webkit-box;display:-ms-flexbox;display:flex;-webkit-box-align:center;-ms-flex-align:center;align-items:center;gap:8px;margin-bottom:1.5rem;color:#fff;font-weight:normal;cursor:pointer}.form-check-label a{padding-left:4px;color:#fff;font-weight:bold}.form-check-label a:hover{text-decoration:underline}.btn{display:-webkit-box;display:-ms-flexbox;display:flex;-webkit-box-align:center;-ms-flex-align:center;align-items:center;-webkit-box-pack:center;-ms-flex-pack:center;justify-content:center;-webkit-box-flex:1;-ms-flex:1;flex:1;height:52px;color:#fff;border-radius:4px;background-color:#d1b982;font-size:18px;font-weight:bold;-webkit-transition:all .1s ease-in;transition:all .1s ease-in;cursor:pointer}.btn:hover{color:#9e9f9f;background-color:#fff}.btn-secondary{height:52px;color:#fff;background-color:#9e9f9f;border:0;border-radius:4px;font-weight:bold}@media(max-width: 1024px){.reservation .title{font-size:22px;text-align:left}.reservation .d-flex{padding:2rem 1rem;-webkit-box-orient:vertical;-webkit-box-direction:normal;-ms-flex-direction:column;flex-direction:column;-webkit-box-align:center;-ms-flex-align:center;align-items:center;max-width:680px;margin:0 auto}.reservation .intro{-webkit-box-flex:1;-ms-flex:1 1 100%;flex:1 1 100%;width:100%;max-width:100%;margin:0;padding:0}.reservation .call-to-action{-webkit-box-flex:1;-ms-flex:1 1 100%;flex:1 1 100%}.reservation .info-wrapper .table{margin-bottom:1rem}.reservation .info-wrapper .table>thead>tr>th{padding:0}.reservation .info-wrapper .table>tbody>tr>td{font-size:16px;padding:0 0 1rem 0}.reservation .form-wrapper{max-width:680px}.reservation .form-wrapper .d-flex{-webkit-box-orient:horizontal;-webkit-box-direction:normal;-ms-flex-direction:row;flex-direction:row;-webkit-box-align:stretch;-ms-flex-align:stretch;align-items:stretch;padding:0;margin-bottom:.5rem}.reservation .form-wrapper .d-flex .form-control{margin-right:5px}}@media(max-width: 820px){.reservation .d-flex{padding:2rem 0}.reservation .intro{text-align:center}.reservation .intro .title{text-align:center;margin-bottom:1rem}.reservation .intro .para{margin:0;text-align:center}.reservation .contact-content{display:-webkit-box;display:-ms-flexbox;display:flex;-webkit-box-align:center;-ms-flex-align:center;align-items:center;-webkit-box-pack:center;-ms-flex-pack:center;justify-content:center;gap:.75rem;padding-bottom:1.5rem;margin-bottom:1.5rem;position:relative}.reservation .contact-content::after{content:"";display:block;width:80px;height:2px;background-color:#fff;position:absolute;bottom:0}.reservation .contact-content .title{margin-bottom:0}.reservation .contact-content .title,.reservation .contact-content .para{font-size:1.5rem}.form-wrapper .form-title{text-align:center;padding-bottom:8px}.form-wrapper .form-control-wrapper{margin-bottom:0}.form-wrapper .form-control,.form-wrapper .btn,.form-wrapper .btn-secondary{height:48px}.map-wrapper{display:-webkit-box;display:-ms-flexbox;display:flex;-webkit-box-orient:vertical;-webkit-box-direction:reverse;-ms-flex-direction:column-reverse;flex-direction:column-reverse}}@media(max-width: 480px){.form-title{margin:0;margin-bottom:1rem;font-size:22px}.form-control{margin-bottom:.5rem}.form-control,.btn,.btn-secondary{font-size:15px}.policy{margin-bottom:8px;font-size:12px;letter-spacing:-1px}.form-check-label{margin-bottom:12px;font-size:12px}}.google-map{width:100%;max-width:100%;height:30vh;max-height:200px;margin:2rem auto;position:relative}.google-map iframe{width:100%;max-width:100%;height:100%;position:absolute;top:0;bottom:0;left:0;right:0}@media(max-width: 820px){.google-map{margin-bottom:2rem}}/*# sourceMappingURL=main.min.css.map */

diff --git a/index.html b/index.html
@@ -115,6 +115,10 @@
                 <span class="font-en">DURGO</span>
                 <span>健康淨氣</span>
               </li>
+              <li class="circle-item">
+                <span class="font-en">JAPAN</span>
+                <span>日系工學</span>
+              </li>
             </ul>
           </div>
         </div>
@@ -270,21 +274,24 @@
             <img src="images/s3/img-9.jpg" alt="節能膠合玻璃">
           </picture>
           <div class="content left">
-            <span class="subtitle border gold">6+6 節能膠合玻璃</span>
+            <span class="subtitle border gold">日系工學</span>
             <h2 class="title">
               <span class="d-flex d-md-left">
-                <img class="img-flag jp" src="images/s3/japan.svg" alt="日本">日本第一
+                <img class="img-flag jp" src="images/s3/japan.svg" alt="日本">YKK日本第一氣密窗
               </span>
               <span class="d-flex d-md-left">
                 <img class="img-flag" src="images/s3/YKK.png" alt="YKK">
-                抗風壓防漏水
+                6+6節能膠合玻璃
               </span>
             </h2>
+            <p class="para">
+              日本YKK AP以領先業界指標的絕佳氣密性，水密性超越CNS、日本JS工業標準規格，等壓結構確保水密，有效防豪雨滲入、隔絕噪音，締造極致日系靜謐生活哲學。
+            </p>
             <ul class="para list">
-              <li>水密性達 1500Pa</li>
-              <li>經 3600Pa 風壓測試</li>
-              <li>氣密性 CNS 2m3/hr-m2 級</li>
-              <li>隔音性達 35dB</li>
+              <li>水密性達1500Pa</li>
+              <li>經3600Pa風壓測試</li>
+              <li>氣密性 CNS 2m3/hr-m2級</li>
+              <li>隔音性達30dB</li>
             </ul>
           </div>
         </div>
@@ -617,17 +624,6 @@
       <div class="swiper-wrapper">
         <div class="swiper-slide">
           <div class="relative">
-            <img src="images/s7/img-1.jpg" alt="北士科">
-          </div>
-          <div class="content">
-            <h2 class="title">北士科×華碩×和碩<br />科技菁英置產新寵</h2>
-            <p class="para">
-              【飛鳥之丘】坐定關渡華碩×和碩科技重鎮最美住宅地段，當北士科、南軟、內科因產業實力早已上看百萬房價，此刻入主竹圍、買定北部科技走廊樞紐，未來房市補漲實力更是顯而易見。
-            </p>
-          </div>
-        </div>
-        <div class="swiper-slide">
-          <div class="relative">
             <img src="images/s7/img-2.jpg" alt="紅樹林保留區">
             <span class="img-tag">紅樹林保留區</span>
           </div>
@@ -659,8 +655,9 @@
           </div>
           <div class="content white">
             <h2 class="title">綠丘豐紅 金黃水畔<br />自然×商圈一應俱全</h2>
+            <h3 class="para">民權路商圈 豐足機能繁華聚落</h3>
             <p class="para">
-              下捷運的瞬間，立刻沾染蓬勃生氣。量販超市、名店餐飲、淡水老街與傳統市集皆是日常樂活巡禮；紅樹林、關渡自然公園、台北藝術大學讓繁華遇上自然，最富裕的人生姿態，總是源自生活的無限豐韻。
+              民權路商圈位處竹圍出入台北的咽喉要道，生活機能完備，全聯福利中心、各式美食小吃、連鎖名店、在地料理隨手可得，【飛鳥之丘】不到3分鐘車程，即能擁有城心繁華生活圈。
             </p>
           </div>
         </div>

diff --git a/css/main.css b/css/main.css
@@ -509,6 +509,10 @@ picture {
 .s3 .d-flex .subtitle.white {
   color: #181818;
 }
+.s3 ul.list {
+  width: 100%;
+  max-width: 100%;
+}
 .s3 ul.list li {
   display: -webkit-box;
   display: -ms-flexbox;

diff --git a/scss/_section.scss b/scss/_section.scss
@@ -267,6 +267,8 @@
 
   ul {
     &.list {
+      width: 100%;
+      max-width: 100%;
       li {
         display: flex;
         align-items: center;
